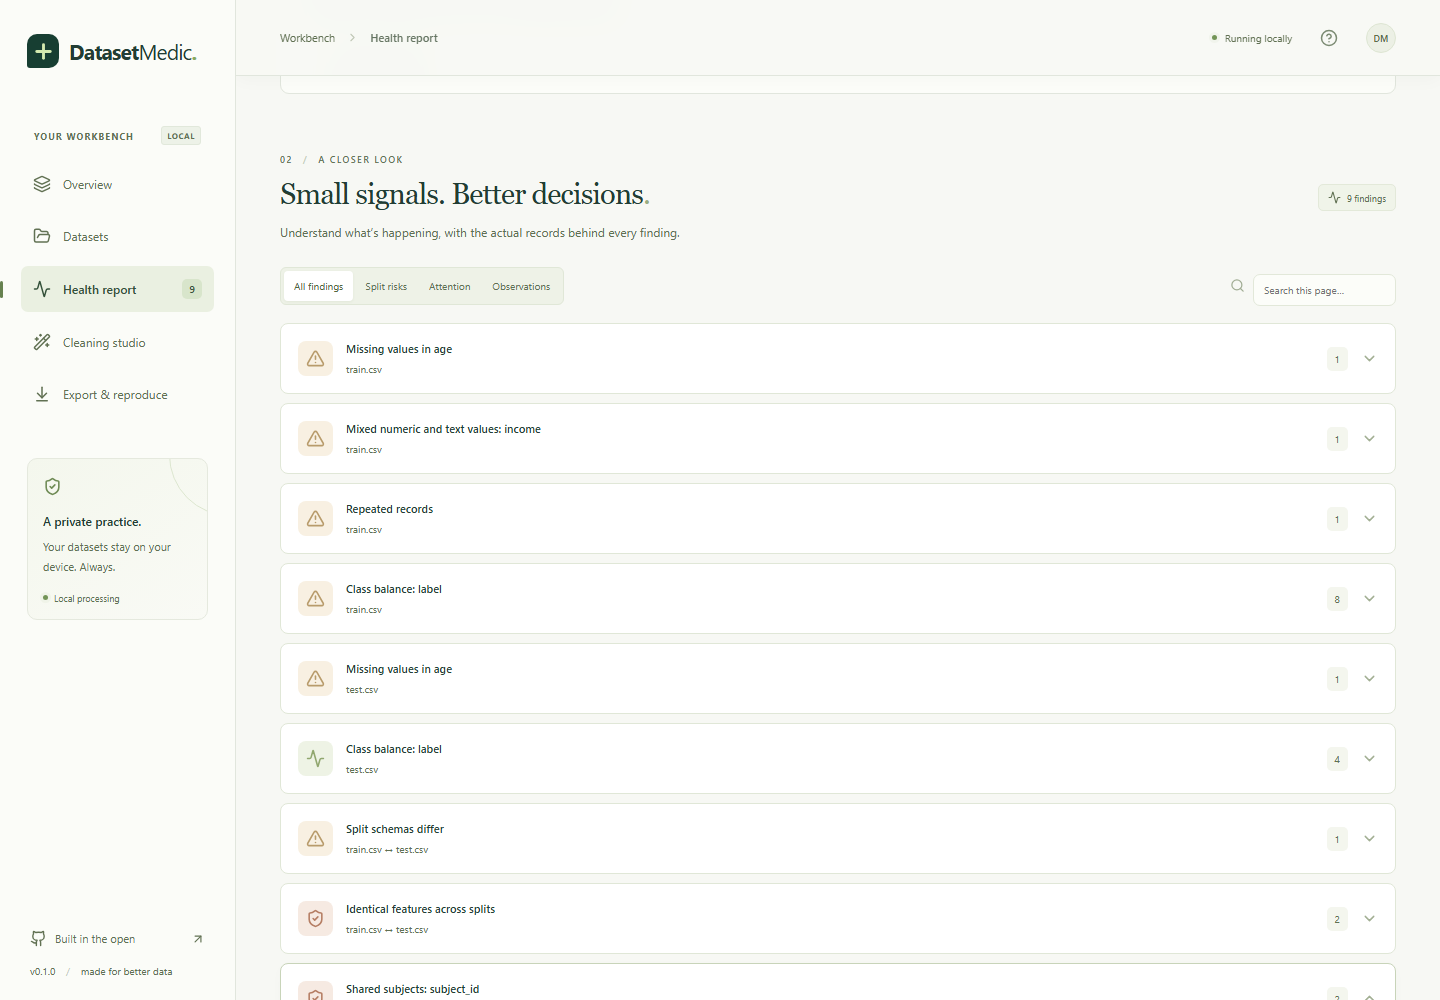
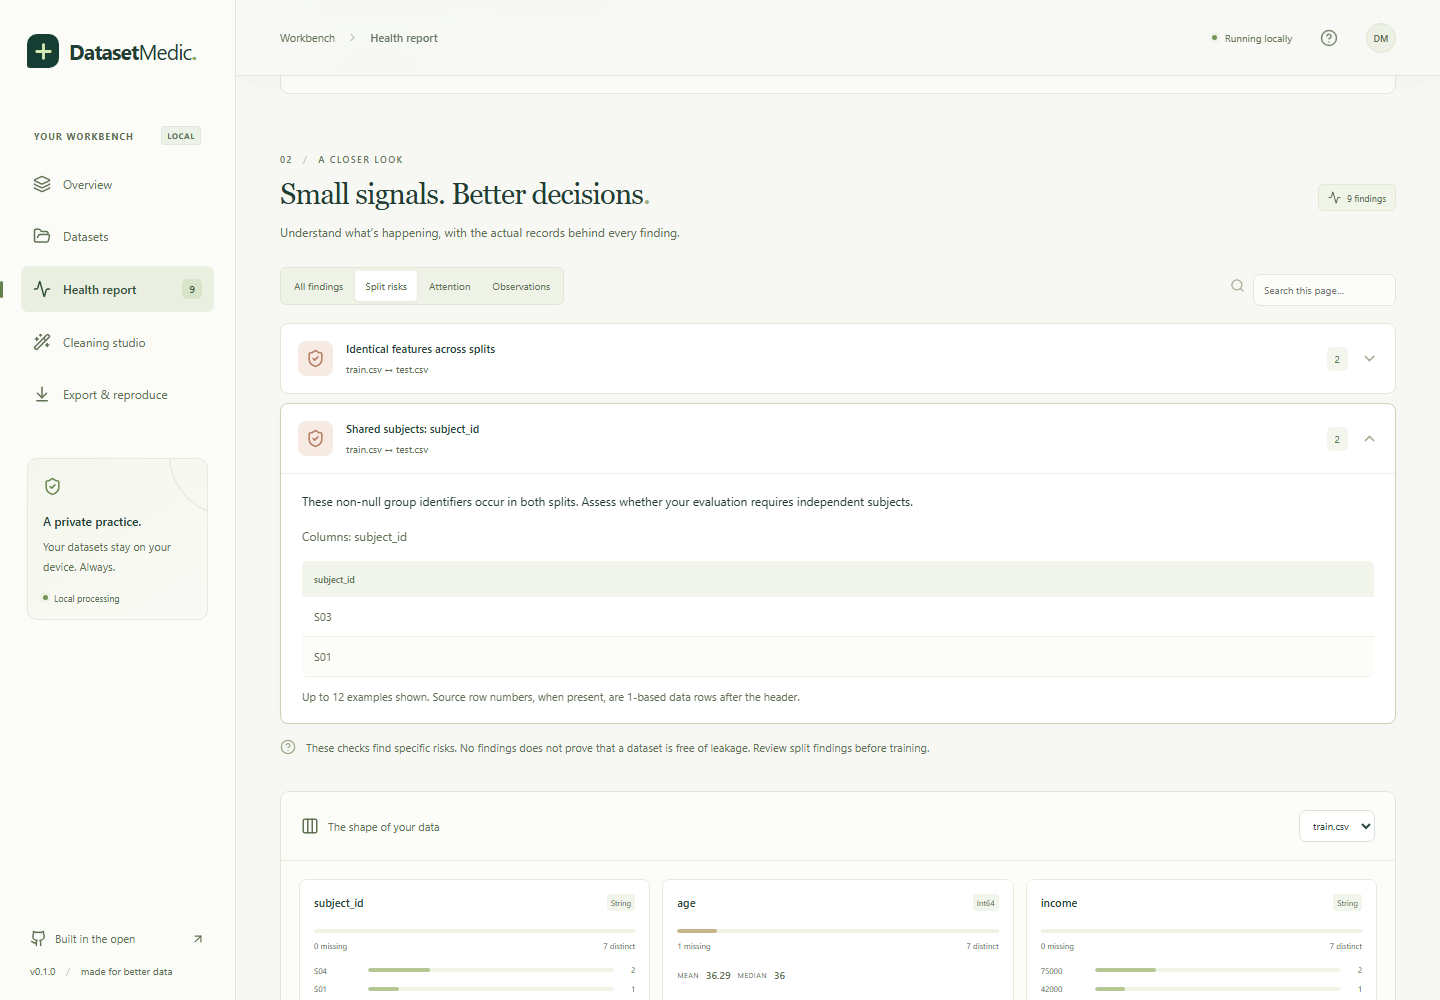
fix: allow fresh source installs and preserve literal constant fills

diff --git a/web/e2e/workflow.spec.ts b/web/e2e/workflow.spec.ts
@@ -101,3 +101,19 @@ test('empty and populated workbench pass automated WCAG A/AA checks',async({page
   await page.getByRole('button',{name:/Shared subjects: subject_id/}).click();
   expect((await new AxeBuilder({page}).withTags(['wcag2a','wcag2aa']).analyze()).violations).toEqual([]);
 });
+
+test('constant text fills preserve leading zeros',async({page})=>{
+  await page.goto('/');
+  await page.locator('#file-import').setInputFiles({name:'codes.csv',mimeType:'text/csv',buffer:Buffer.from('code,amount\nA1,2\n,3\n')});
+  await page.getByRole('button',{name:'Run health check',exact:true}).click();
+  await expect(page.getByRole('button',{name:'Preview changes'})).toBeEnabled();
+  await page.getByLabel('What would you like to do?').selectOption('fill');
+  await page.locator('.builder-body').getByRole('button',{name:'code',exact:true}).click();
+  await page.getByLabel('Fill strategy').selectOption('constant');
+  await page.getByLabel('Fill value',{exact:true}).fill('001');
+  await page.getByRole('button',{name:'Add recipe step'}).click();
+  await page.getByRole('button',{name:'Preview changes'}).click();
+  await expect(page.getByText('Up to date',{exact:true})).toBeVisible();
+  await page.getByText('See the resulting records and fitted values',{exact:true}).click();
+  await expect(page.getByRole('cell',{name:'001',exact:true})).toBeVisible();
+});

diff --git a/web/src/App.tsx b/web/src/App.tsx
@@ -187,8 +187,8 @@ export default function App() {
   function addStep() {
     setError('');
     if (op !== 'deduplicate' && !stepColumns.length) {setError('Choose at least one column for this operation.');return;}
-    let value: string | number | boolean = fillValue;
-    if (fillMethod === 'constant' && fillValue !== '' && Number.isFinite(Number(fillValue))) value=Number(fillValue);
+    // Preserve text such as "001"; the engine validates values against each selected column type.
+    const value = fillValue;
     setSteps([...steps,{op, method:fillMethod, columns:op==='deduplicate'?[]:stepColumns, ...(op==='cast'?{dtype:castType}:{}), ...(op==='fill'?{value}: {})}]);
     setStepColumns([]);
   }

diff --git a/scripts/github_release.py b/scripts/github_release.py
@@ -16,11 +16,20 @@ REPO = "Aadithya-Ram/DatasetMedic"
 ROOT = Path(__file__).resolve().parents[1]
 
 
+class SafeRedirect(urllib.request.HTTPRedirectHandler):
+    def redirect_request(self, req, fp, code, msg, headers, newurl):
+        redirected = super().redirect_request(req, fp, code, msg, headers, newurl)
+        if redirected and urllib.parse.urlparse(req.full_url).netloc != urllib.parse.urlparse(newurl).netloc:
+            redirected.remove_header("Authorization")
+        return redirected
+
+
 def main():
     parser = argparse.ArgumentParser(description=__doc__)
     parser.add_argument("--configure", action="store_true")
     parser.add_argument("--publish", action="store_true")
     parser.add_argument("--status", action="store_true")
+    parser.add_argument("--logs", type=int, help="Read a GitHub Actions job's final log lines")
     args = parser.parse_args()
     credentials = subprocess.run(["git", "credential", "fill"],
         input="protocol=https\nhost=github.com\nusername=Aadithya-Ram\n\n", text=True, capture_output=True,
@@ -31,15 +40,15 @@ def main():
     headers = {"Authorization": "Bearer " + fields["password"], "Accept": "application/vnd.github+json",
                "User-Agent": "DatasetMedic-release", "X-GitHub-Api-Version": "2022-11-28"}
 
-    def api(path, method="GET", data=None, binary=None, content_type=None):
+    def api(path, method="GET", data=None, binary=None, content_type=None, raw=False):
         url = path if path.startswith("https://") else "https://api.github.com" + path
         payload = binary if binary is not None else json.dumps(data).encode() if data is not None else None
         request_headers = {**headers, "Content-Type": content_type or "application/json"}
         req = urllib.request.Request(url, headers=request_headers, method=method, data=payload)
         try:
-            with urllib.request.urlopen(req, timeout=60) as response:
+            with urllib.request.build_opener(SafeRedirect()).open(req, timeout=60) as response:
                 body = response.read()
-                return json.loads(body) if body else None
+                return body.decode("utf-8", errors="replace") if raw else json.loads(body) if body else None
         except urllib.error.HTTPError as exc:
             if exc.code == 404:
                 return None
@@ -48,6 +57,9 @@ def main():
     account = api("/user")
     if account["login"].lower() != "aadithya-ram":
         raise SystemExit("The authenticated GitHub account does not match the repository owner.")
+    if args.logs:
+        logs = api(f"/repos/{REPO}/actions/jobs/{args.logs}/logs", raw=True)
+        print("\n".join((logs or "No logs available.").splitlines()[-90:]))
     if args.status:
         runs = api(f"/repos/{REPO}/actions/runs?per_page=3")
         for run in (runs or {}).get("workflow_runs", []):

diff --git a/ROADMAP.md b/ROADMAP.md
@@ -31,3 +31,5 @@ Do not mark an item complete based only on implementation. Record successful val
 ## October 17, 2026 — initial implementation
 
 Built the planned v1 workflow in the initial session. Confirmed GitHub account access and repository creation. Configured repository description/topics and a repository-local GitHub no-reply author address. Scheduled three work sessions daily through October 30. Twenty Python tests and six Chromium browser scenarios pass; automated WCAG A/AA checks report no violations in empty and populated workbenches. Built a wheel with the complete interface, installed it in a clean Python 3.11 environment, ran the package's Python tests, and served its interface/API successfully. Captured actual desktop/mobile screenshots and documented a 100,000-row synthetic benchmark. Remote CI verification and downloadable release publication are next.
+
+Initial three commits were pushed and local/remote HEADs matched. The first clean Linux checkout exposed an editable-install failure caused by requiring generated assets before the frontend build. Replaced forced inclusion with optional build artifacts; full wheel validation still requires the interface. Also preserved literal text in constant fills (for example, `001`) instead of coercing it to a number in the browser. Re-running remote checks before release.
